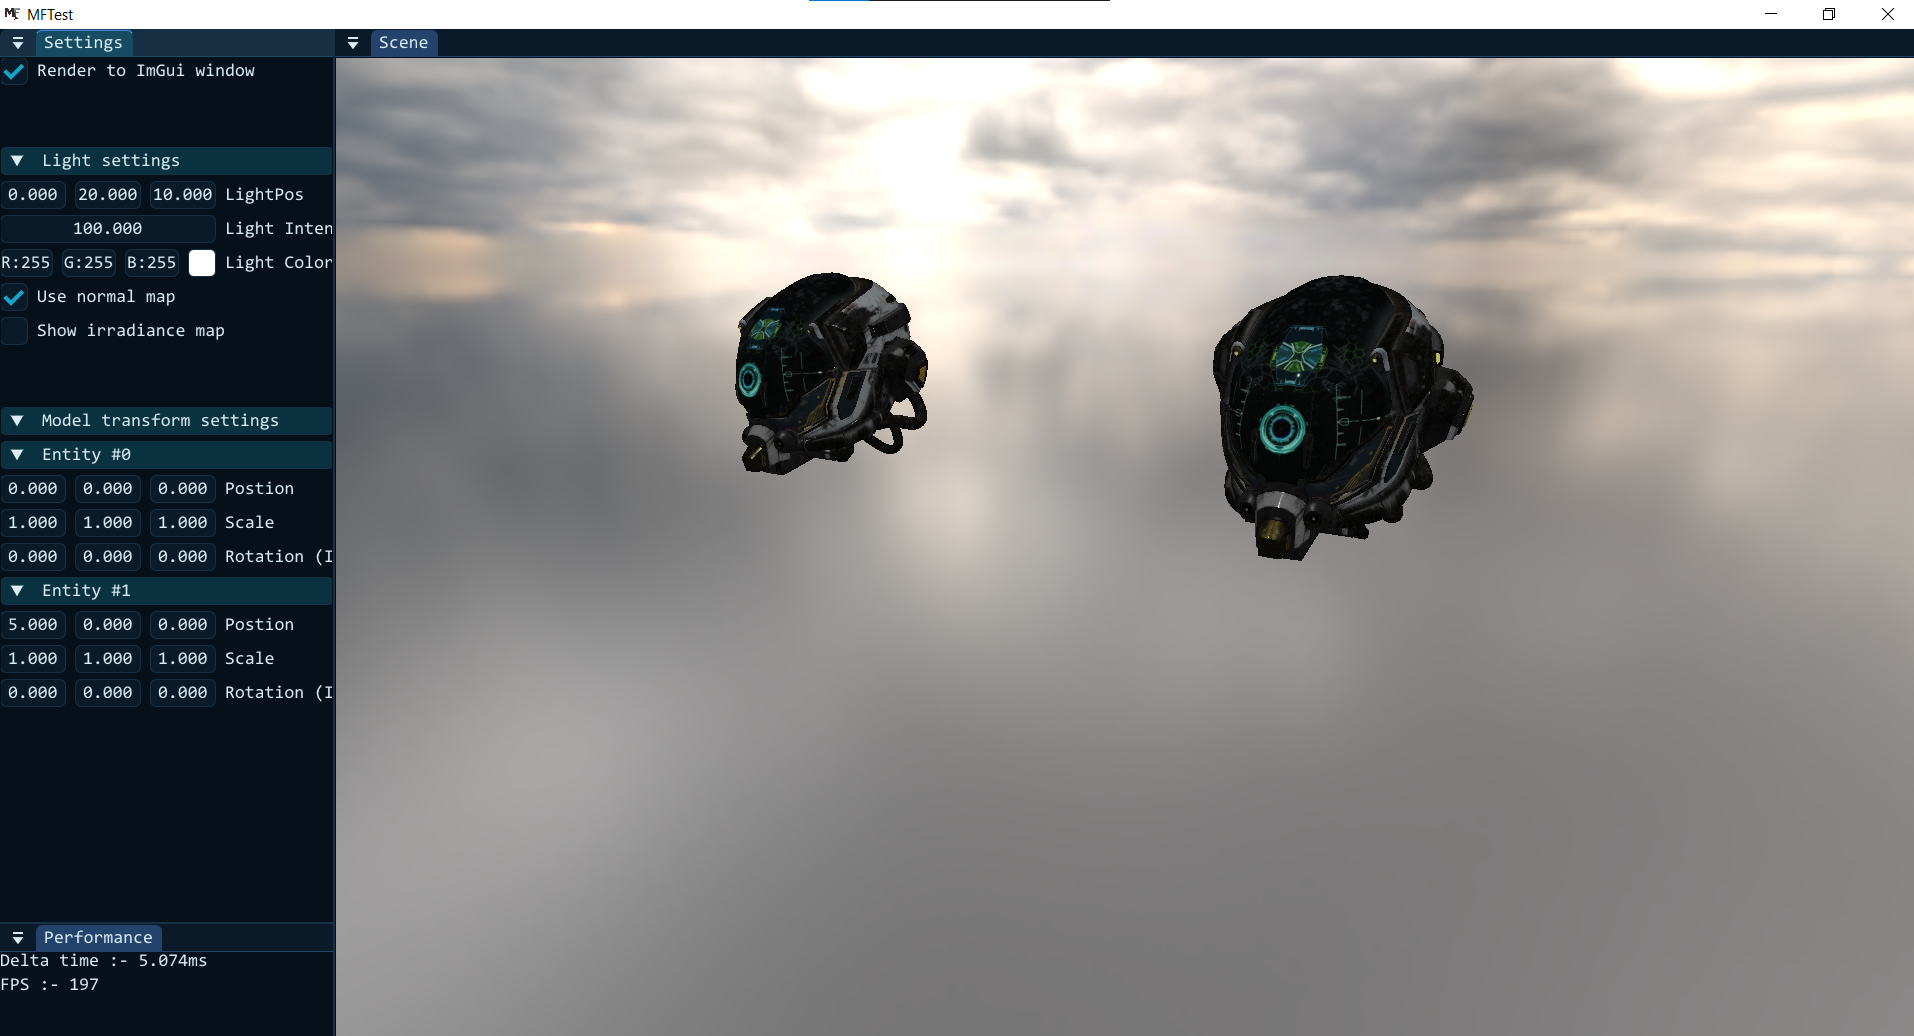
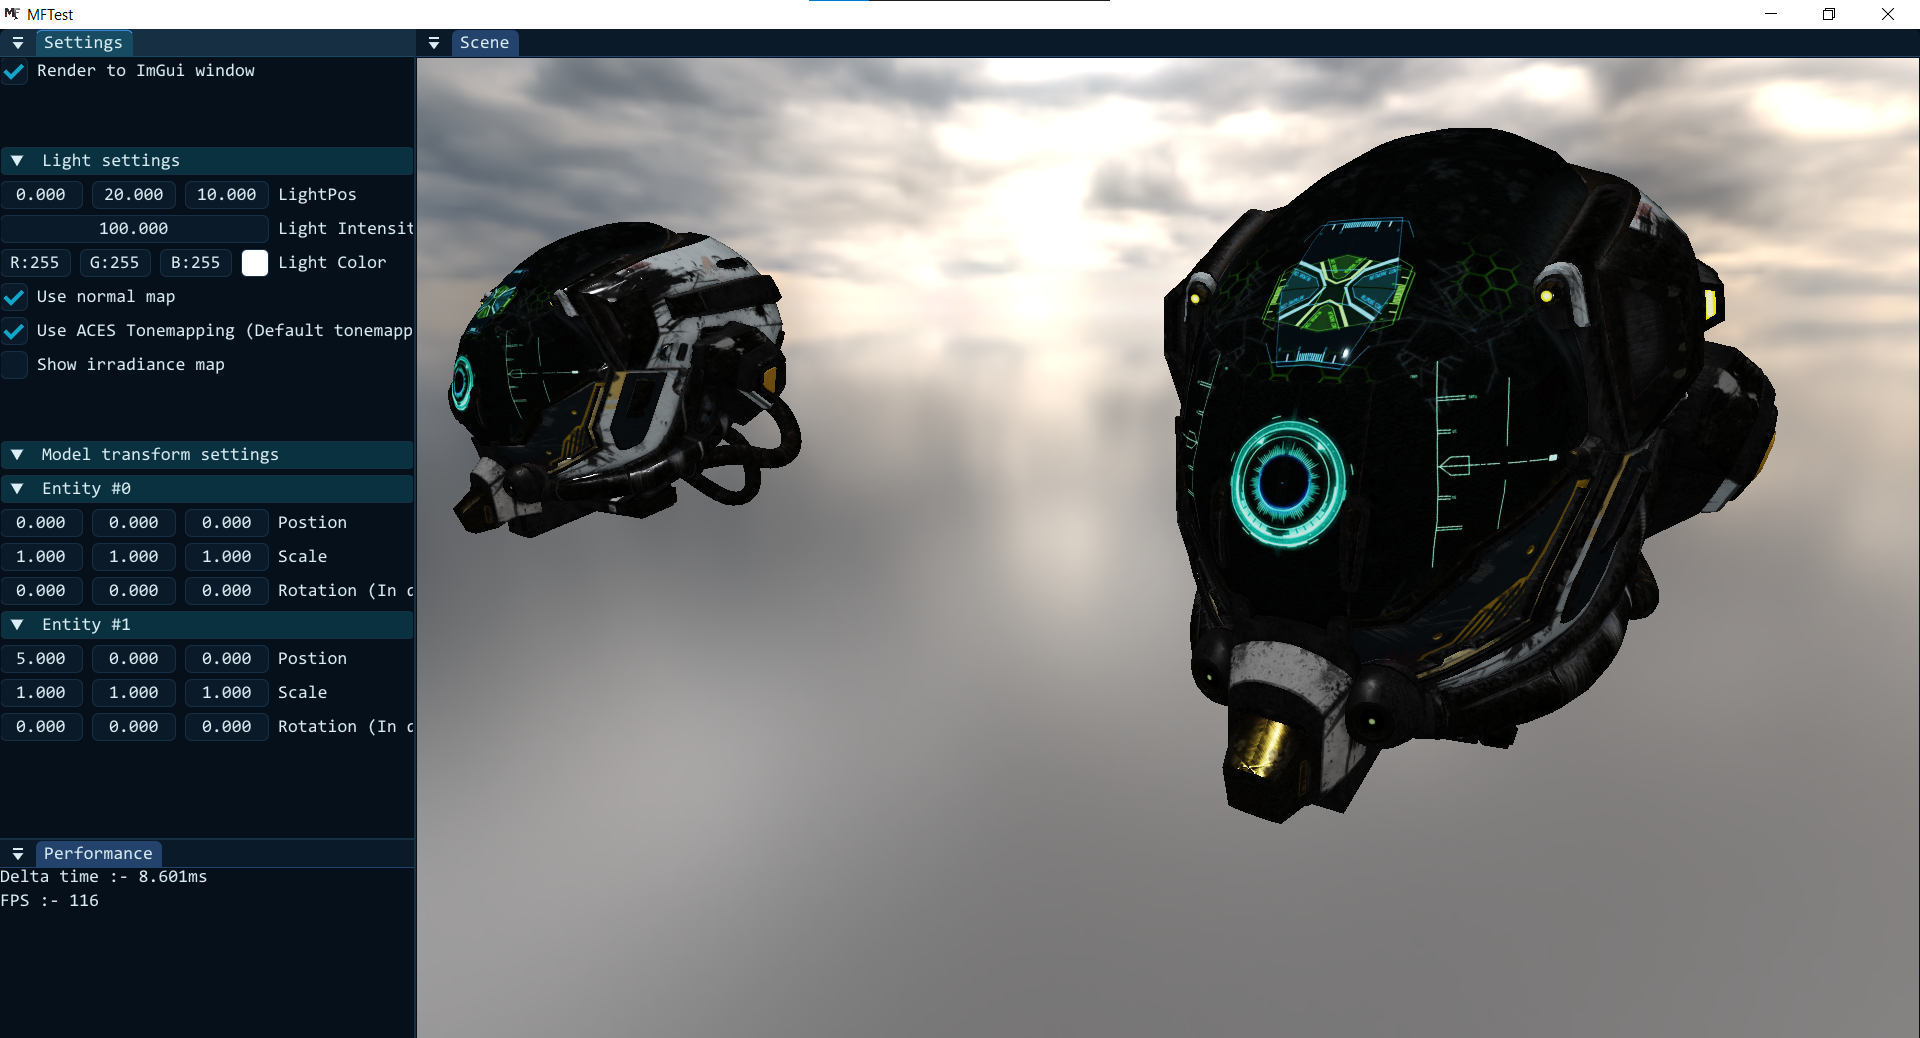
Made ACES tonemapping optional in MFTest

diff --git a/MFTest/src/mftest.c b/MFTest/src/mftest.c
@@ -206,7 +206,8 @@ static void CreateUBOs(MFTState* state, MFDefaultAppState* appState) {
         .lightPos = (MFVec3){0.0f, 20.0f, 10.0f},
         .lightColor = (MFVec3){1.0f, 1.0f, 1.0f},
         .lightIntensity = 100,
-        .useNormalMap = true
+        .useNormalMap = true,
+        .useAcesTonemapping = true
     };
     
     state->lightUbo = mfGpuBufferAllocate(config, appState->renderer);
@@ -482,10 +483,13 @@ void MFTOnUIRender(void* pstate, void* pappState) {
             igColorEdit3("Light Color", colorData, ImGuiColorEditFlags_None);
 
             bool useNormalMap = state->lightData.useNormalMap;
+            bool useAcesTonemapping = state->lightData.useAcesTonemapping;
 
             igCheckbox("Use normal map", &useNormalMap);
+            igCheckbox("Use ACES Tonemapping (Default tonemapper is Reinhard)", &useAcesTonemapping);
             igCheckbox("Show irradiance map", &state->showIrradiance);
 
+            state->lightData.useAcesTonemapping = useAcesTonemapping;
             state->lightData.useNormalMap = useNormalMap;
             state->lightData.lightPos = mfFloatArrToVec3(posData);
             state->lightData.lightColor = mfFloatArrToVec3(colorData);

diff --git a/MFTest/src/mftest.h b/MFTest/src/mftest.h
@@ -20,6 +20,7 @@ typedef struct LightUBOData_s {
     MFVec3 lightColor;
     f32 lightIntensity;
     int useNormalMap;
+    int useAcesTonemapping;
 } LightUBOData;
 
 typedef struct MFTState_s {